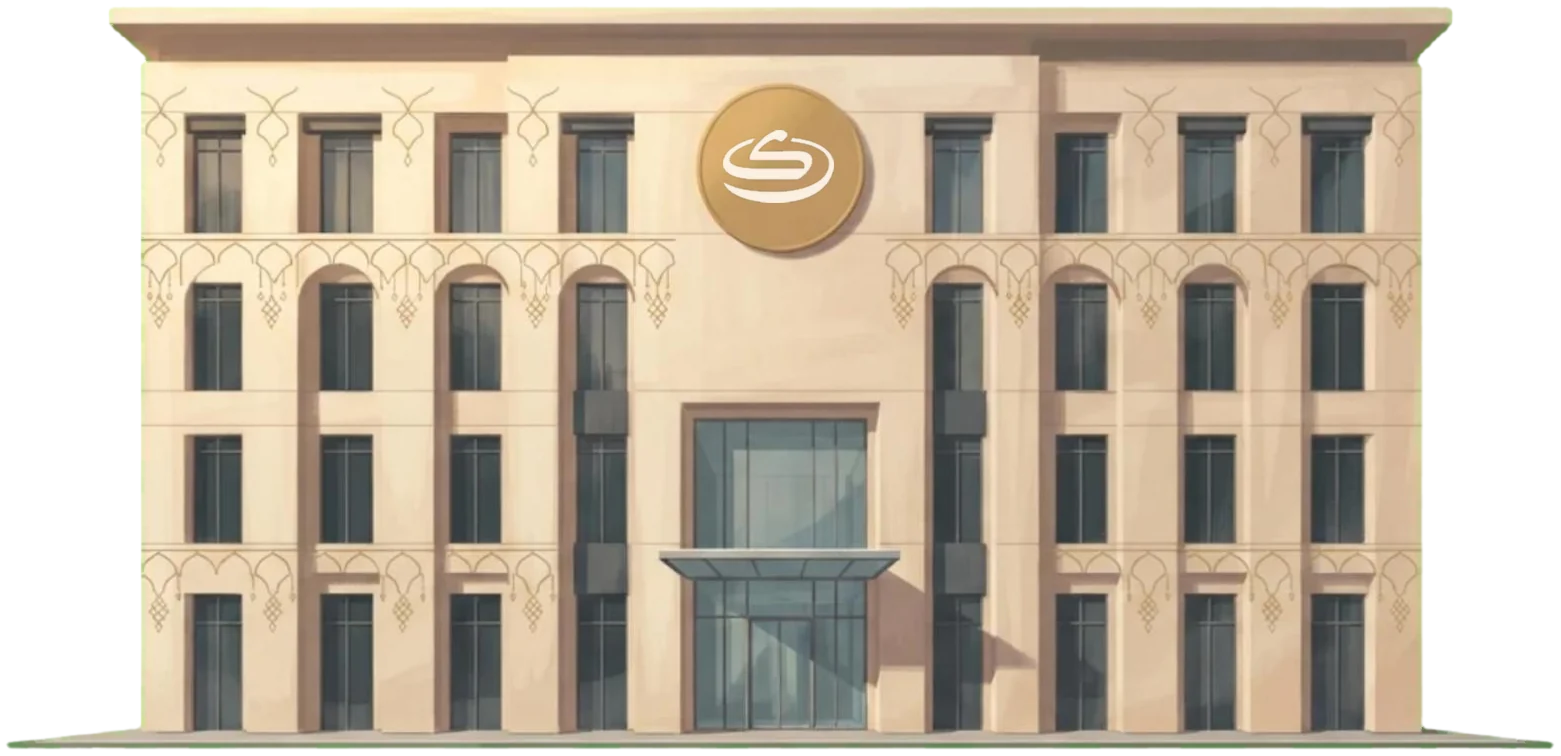
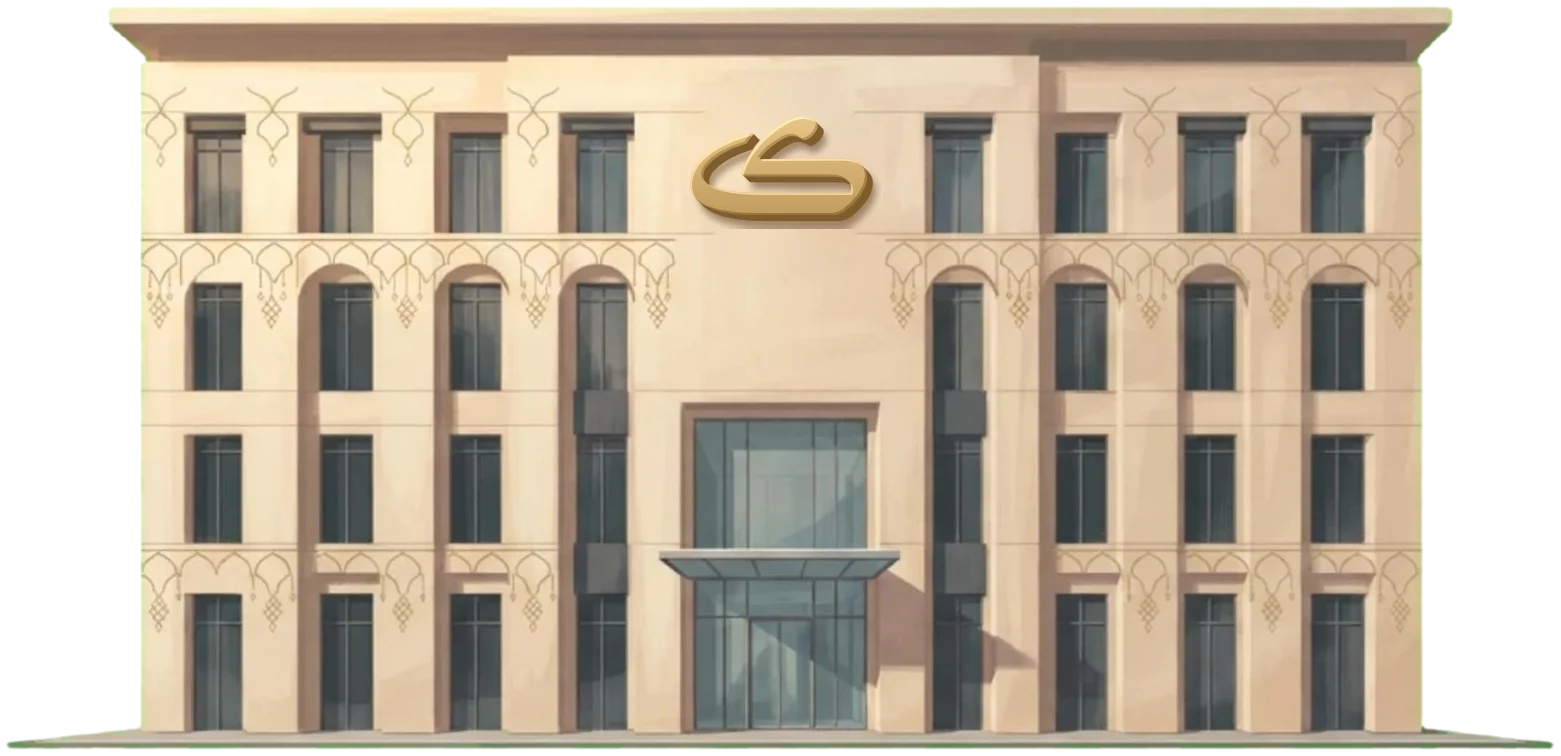
Raised KIDANA mark without ring, text appears on arrival, skills centred on wall

Changed region(s): [[0.4305, 0.0913, 0.5842, 0.3651]]

diff --git a/index.html b/index.html
@@ -372,7 +372,7 @@ function build(){
       s.x0=x+W*.2;s.cx=x+W*.5;s.x1=s.cx;x=s.cx+W*.5;
     }
   });
-  STOPS.forEach(function(s){s.p=s.cx-W*(s.type=="building"&&!mob?.62:.5);s.r=Math.max((s.x1-s.x0)/2,W*.3)+W*.12});
+  STOPS.forEach(function(s){s.p=s.cx-W*(!mob&&(s.type=="building"||s.type=="skills")?(s.type=="skills"?.6:.62):.5);s.r=Math.max((s.x1-s.x0)/2,W*.3)+W*.12});
   maxP=STOPS[STOPS.length-1].p;
   target=Math.min(target,maxP);pos=Math.min(pos,maxP);
   fillText();nightV=-1;cur="";
@@ -382,8 +382,11 @@ var skLabels=[];
 function skillWall(seg,ww){
   // painted logos on the wall: not clickable, laid out in the free space beside / above the character
   skLabels=[];
-  var off=ww/2-W/2,cw=gh/ratio("me"),L=gx+cw*.62+28,R=W*.95,top=H*.405,bot=H*.86,compact=mob||R-L<460;
-  if(compact){L=W*.05;R=W*.95;top=H*.365;bot=H*.685}
+  // seg-local coords; the stop's camera puts the wall centre at W*.6 on desktop, W*.5 on mobile
+  var cxs=mob?W*.5:W*.6,off=ww/2-cxs,cw=gh/ratio("me"),charR=off+gx+cw*.62+24;
+  var half=Math.min(ww*.42,ww/2-charR),L=ww/2-half,R=ww/2+half,top=H*.405,bot=H*.86,compact=mob||R-L<460;
+  if(compact){L=Math.max(ww*.04,off+W*.05);R=Math.min(ww*.96,off+W*.95);top=H*.365;bot=H*.685}
+  L-=off;R-=off;
   var rowH=(bot-top)/4,sks=compact?Math.max(18,Math.min(26,(bot-top)*.07)):Math.max(18,Math.min(46,rowH*.36,(R-L)/7*.42));
   var box=mk("div","skw"+(compact?" c":""),seg);
   box.style.cssText="left:"+(off+L)+"px;top:"+top+"px;width:"+(R-L)+"px;height:"+(bot-top)+"px;--sks:"+sks+"px;--skn:"+(compact?10.5:Math.max(9.5,Math.min(14,sks*.34)))+"px;--skg:"+Math.max(9.5,Math.min(12.5,sks*.3))+"px";
@@ -414,7 +417,13 @@ function blend(p){
   var A=s[i],B=s[Math.min(i+1,s.length-1)],span=(B.p-A.p)||1,t=ease(((p-A.p)/span-.2)/.6);
   return{A:A,B:B,t:t};
 }
-function zoneAt(p){var best=null,bd=1e9;STOPS.forEach(function(s){var d=Math.abs(p-s.p);if(d<s.r&&d<bd){bd=d;best=s}});return best}
+function zoneAt(p){
+  // text shows only when you've (nearly) arrived: a short window around each stop
+  var best=null,bd=1e9,near=Math.max(W*(mob?.22:.13),70);
+  STOPS.forEach(function(s){
+    var d=p-s.p,inside=s.type=="wall"||s.type=="skills"||s.type=="bench",lo=near*(inside?1.5:1),hi=s.hl2?Math.max(near*2.2,W*.24):lo;
+    if(d>-lo&&d<hi&&Math.abs(d)<bd){bd=Math.abs(d);best=s}
+  });return best}
 
 var txTimer=0,txHas=false;
 function setText(z,pg){
@@ -490,7 +499,7 @@ function update(t){
   var e=ease(pos/(W*.7));
   $("hero").style.opacity=Math.max(0,1-e*1.8);
   var z=e<.8?null:zoneAt(pos),pg=0;
-  if(z&&z.hl2)pg=pos>z.p+W*.04?1:0;
+  if(z&&z.hl2)pg=pos>z.p+Math.max(W*.05,Math.max(W*(mob?.22:.13),70)*.6)?1:0;
   setText(z,pg);
   $("prog").style.width=(pos/maxP*100)+"%";
   var eE=ease((pos-(maxP-W*.6))/(W*.55));
